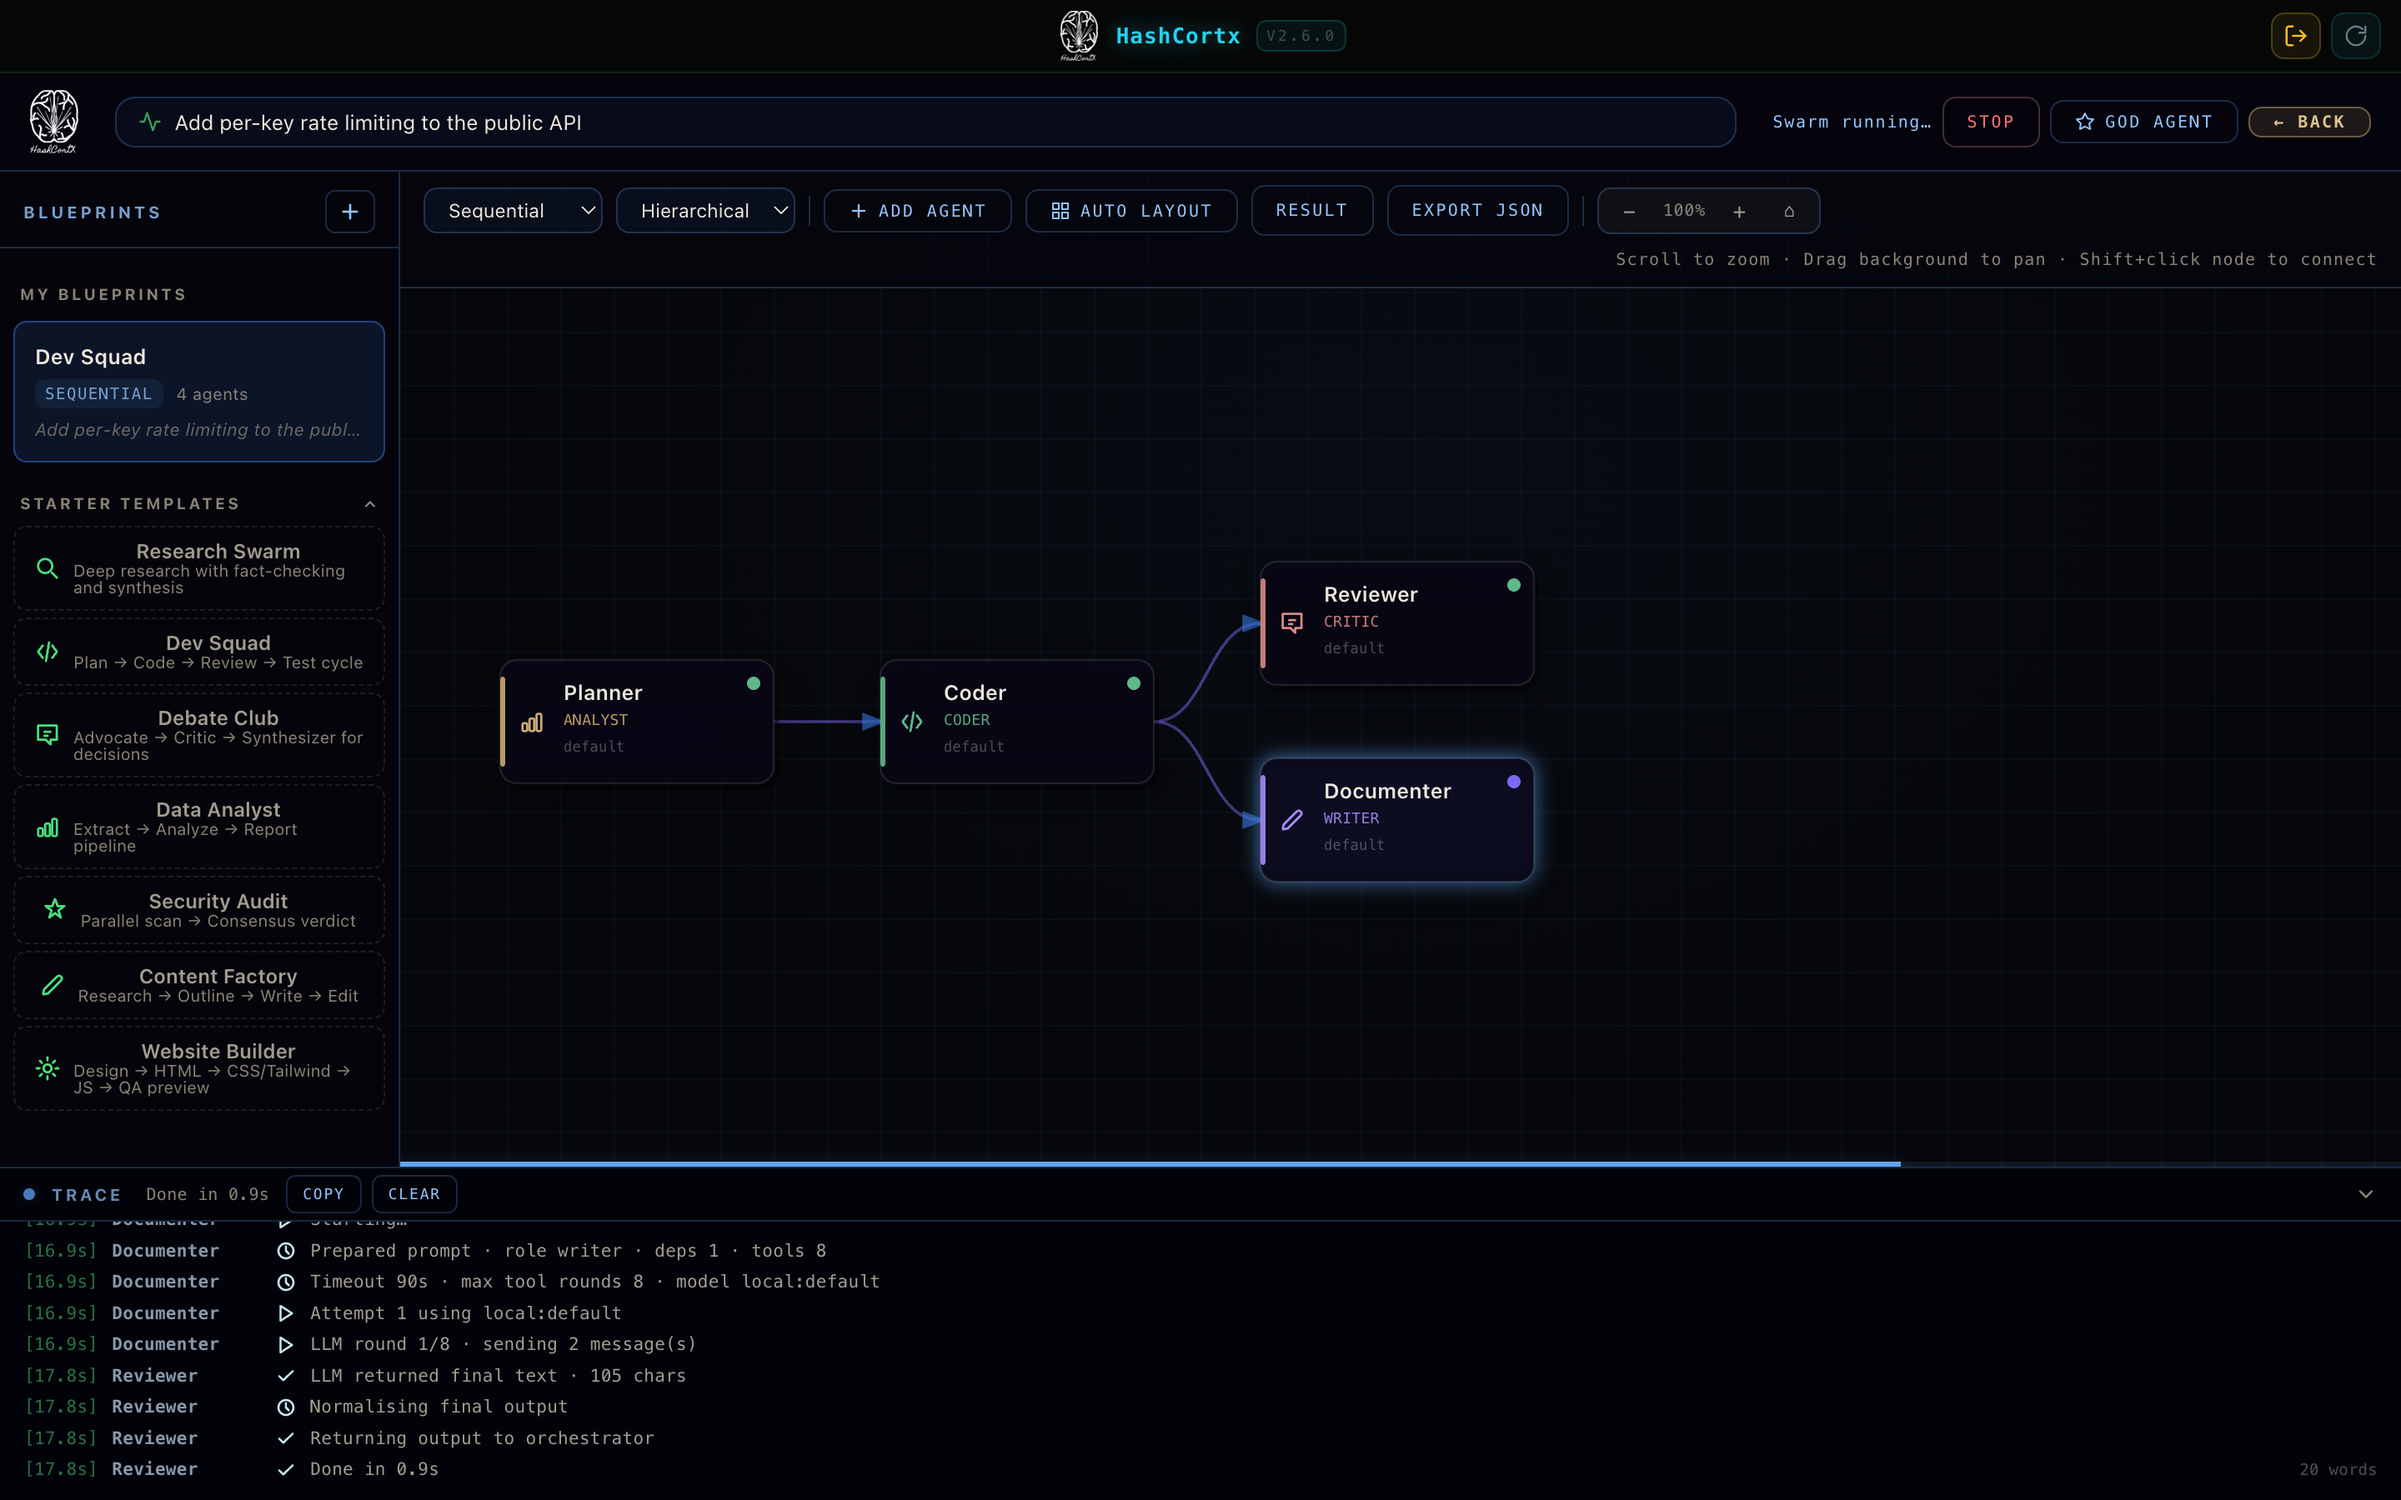
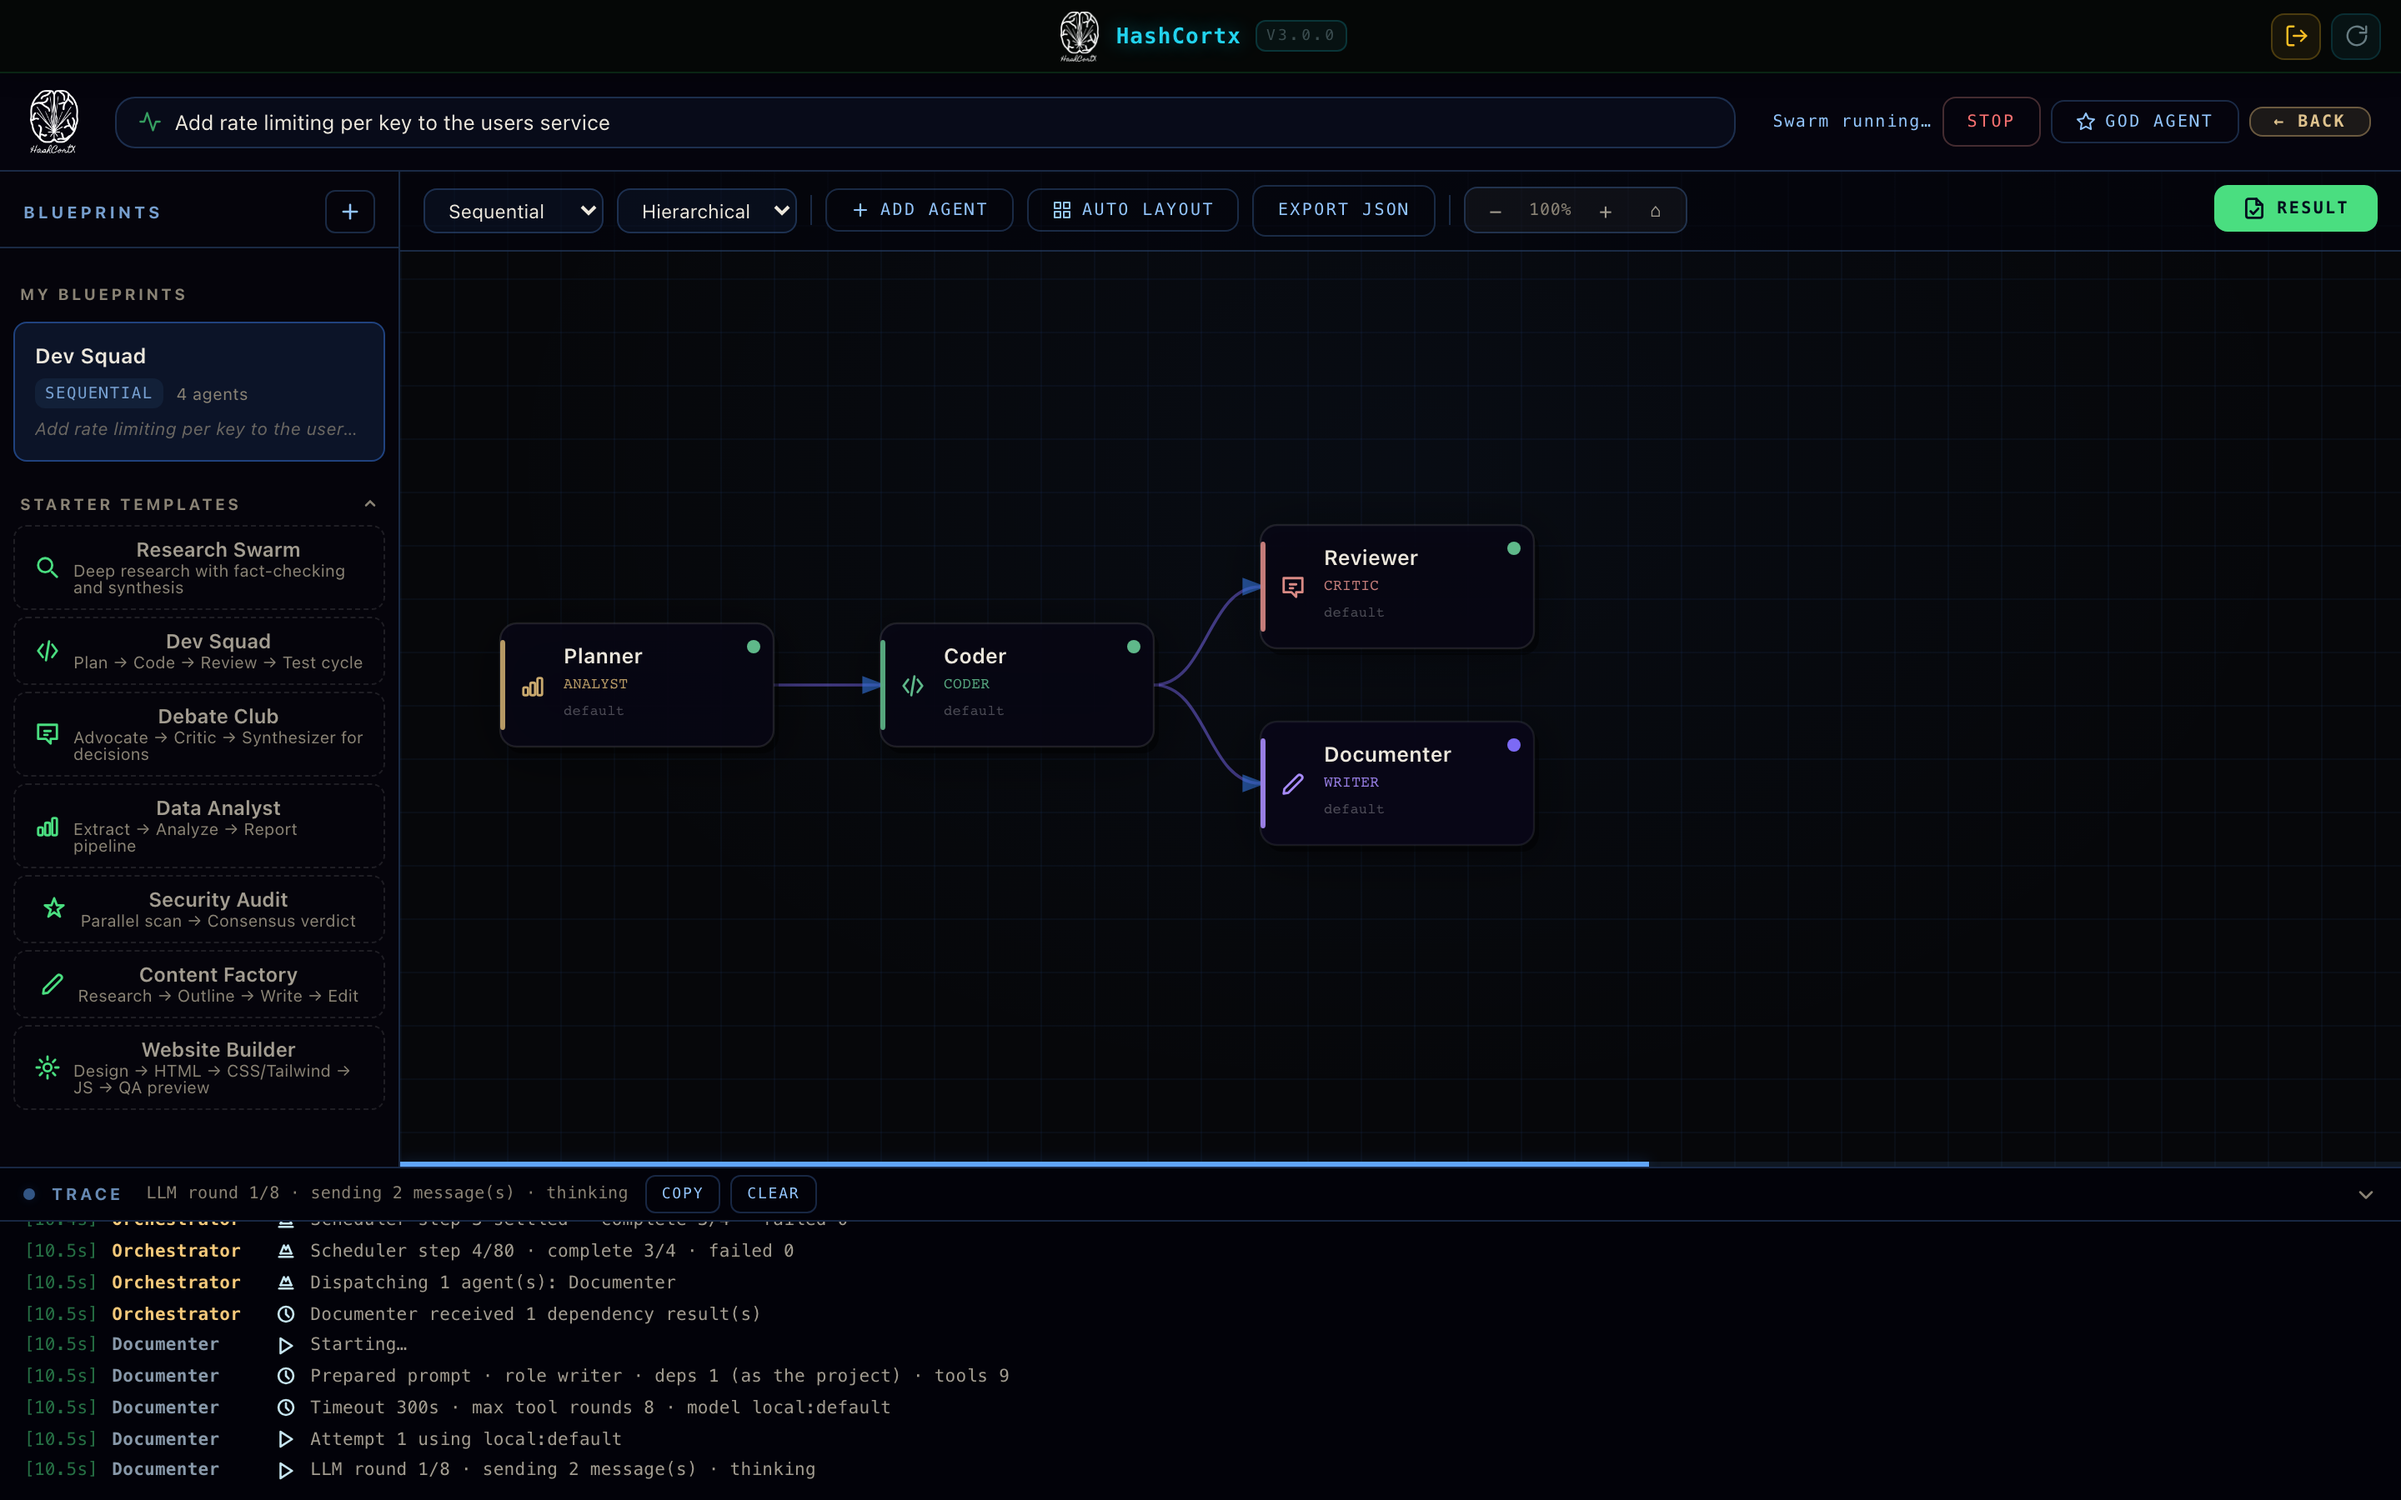
Retake the README screenshots on version 3.0
Developer: Seif Hashish
Project: HashCortX

Summary:
Every README screenshot still showed the version 2.6.0 badge, and the
HashCoder and permission ones showed the panel and bar from before their
redesign. All six are taken again from the current source: the start
screen, a HashCoder run that adds validation to a route with its diff and
the test run said under the answer, the permission bar, an Agent Swarm
team mid-run with its trace, the 3D Forge lamp, and an ERP system for a
guesthouse with its agent's conversation beside it. The project, the
business and every record in them are invented, and the agent's answer
in the ERP shot is the one its records give. The descriptions of the
images that changed subject say what they now show.

Verification:
npm run check passes: 10,189 passed, 0 failed. Each image was taken by
serving src/ in headless Chrome with a stand-in for the desktop side and
a scripted local model, then read on screen, and the README was rendered
through GitHub's own Markdown renderer and read.

diff --git a/README.md b/README.md
@@ -33,7 +33,7 @@ on your keys and your machine. No backend, no telemetry, no account.
 
 <br>
 
-<img src="docs/assets/screenshots/hero.png" alt="HashCortx on opening: the app mark, and a start-up list for the runtime, model routing, the interface, the agent runtime and the content security policy, above a prompt to begin" width="100%">
+<img src="docs/assets/screenshots/hero.png" alt="HashCortx 3.0 on opening: the app mark, and a start-up list for the runtime, model routing, the interface, the agents and the content security policy" width="100%">
 
 <br>
 
@@ -74,7 +74,7 @@ It works on your real files. Every edit is a diff with **Keep** and **Undo**, te
 - **Keeps what you did not ask to change.** An edit that drops a function, a section or a heading is sent back, and what you say to leave alone is left alone.
 - **Asks as much as you choose.** Manual asks before every change and is where it starts; Accept edits writes project files freely; Auto adds a fixed list of read, search and check commands.
 
-<img src="docs/assets/screenshots/coder.png" alt="HashCoder: an agent run that read a route, added validation shown as a diff with Keep and Undo, and ran the tests" width="100%">
+<img src="docs/assets/screenshots/coder.png" alt="HashCoder: a run on a local model that added validation to a route, shown as a diff with Keep and Undo, with the passing test run said under the answer" width="100%">
 
 ## Agent Swarm
 
@@ -85,7 +85,7 @@ Build a team on a canvas, start from a template, or describe the task and have o
 <table>
 <tr>
 <td width="50%"><img src="docs/assets/screenshots/3d-forge.png" alt="3D Forge: a desk lamp generated as four parts, 69 by 100 by 69 millimetres"></td>
-<td width="50%"><img src="docs/assets/screenshots/erp.png" alt="ERP: a bicycle workshop system built by its agent, with the agent's conversation open beside it"></td>
+<td width="50%"><img src="docs/assets/screenshots/erp.png" alt="ERP: a guesthouse system built by its agent, its reservations by status, with the agent's conversation open beside it"></td>
 </tr>
 <tr>
 <td><b>3D Forge.</b> A described object becomes real parts with real dimensions, ready to print or open in CAD.</td>
